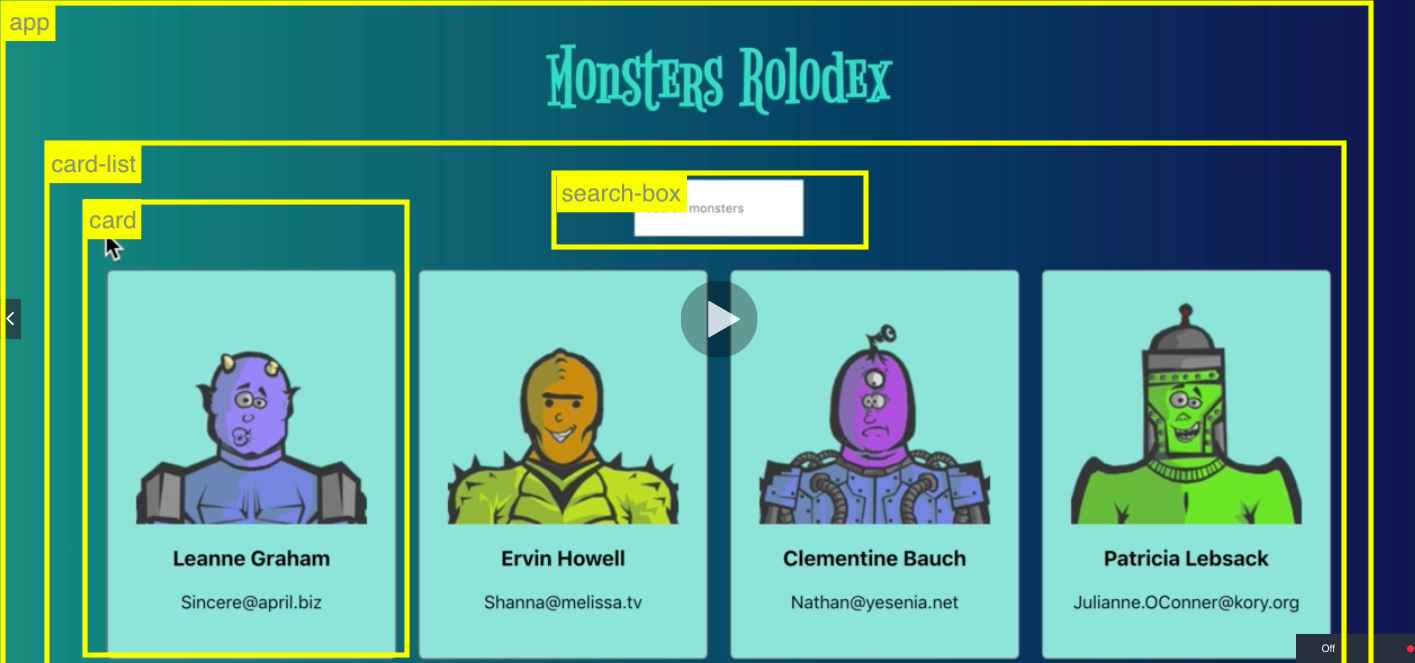
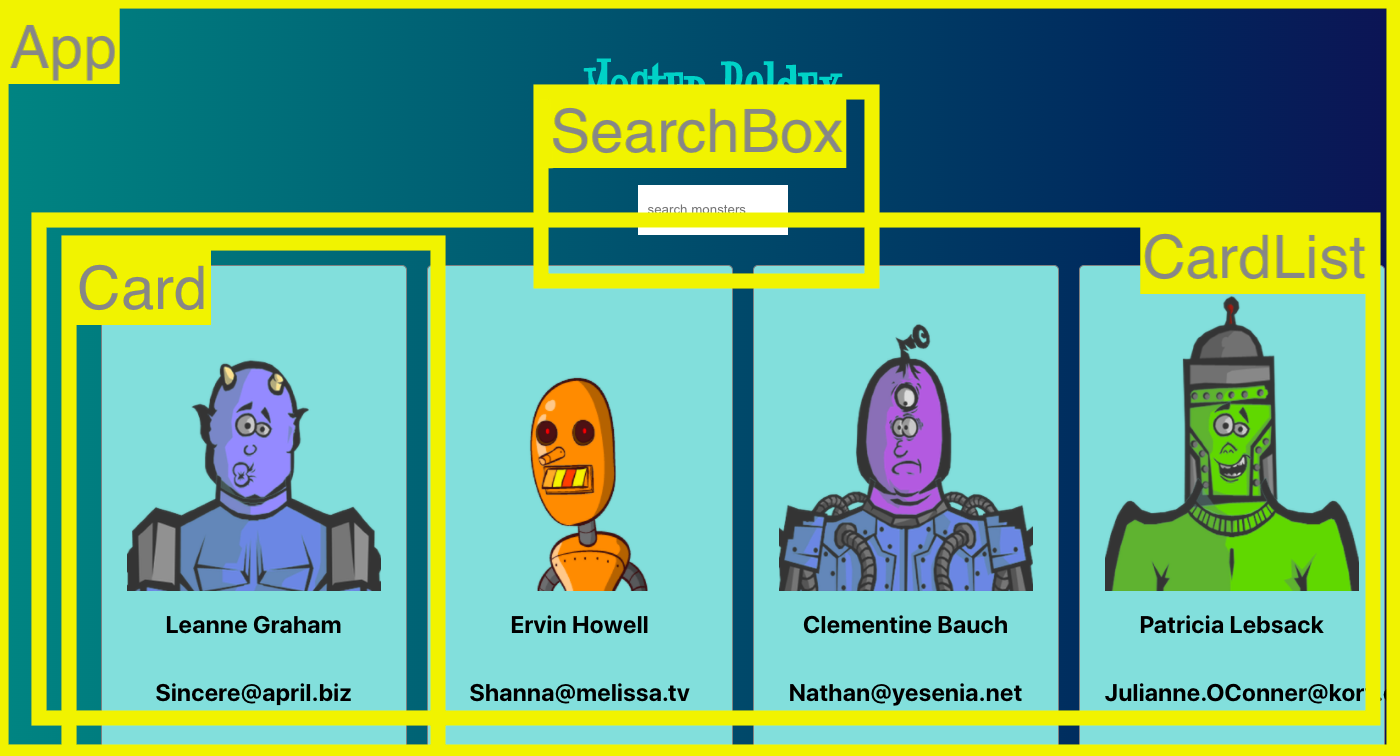
update readme

diff --git a/README.md b/README.md
@@ -1,3 +1,10 @@
+# Oscar's Master Rolodex
+https://15077693d.github.io/master-rolodex/
+![app](https://github.com/15077693d/master-rolodex/blob/master/learning%20resources/componet.png)
+## Exercise from below Udmey course:
+https://www.udemy.com/course/complete-react-developer-zero-to-mastery/
+## The Code Structure Deisign:
+![uml](https://github.com/15077693d/master-rolodex/blob/master/learning%20resources/app.uml)
 This project was bootstrapped with [Create React App](https://github.com/facebook/create-react-app).
 
 ## Available Scripts
